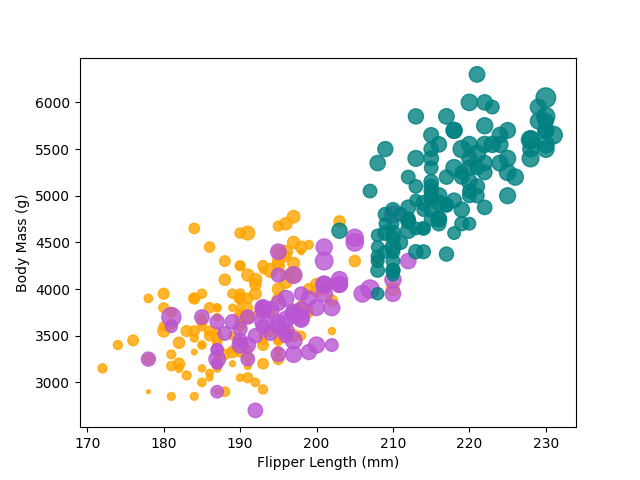
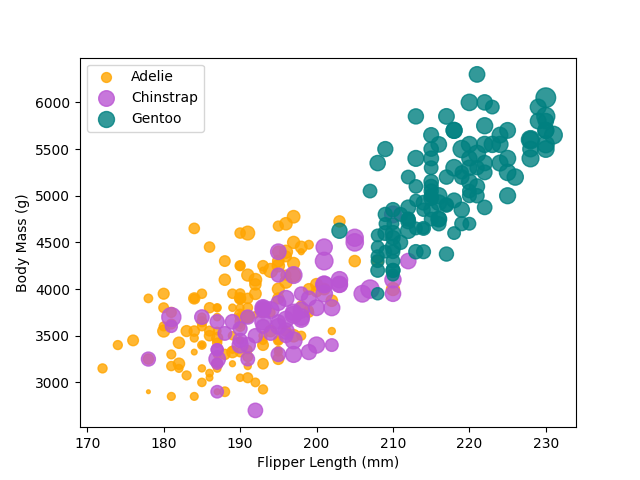
Added legend for Python visualization

Changed region(s): [[0.125, 0.125, 0.3125, 0.2812]]

diff --git a/all_visualizations/python_viz.py b/all_visualizations/python_viz.py
@@ -22,11 +22,13 @@ print(onlyGentooDf)
 
 # Referred to https://www.w3schools.com/python/matplotlib_scatter.asp for making sure I was properly using plt.scatter (mainly in terms of data input)
 # Also referred to https://matplotlib.org/stable/api/_as_gen/matplotlib.pyplot.scatter.html for a refresher on all the params/attributes of plt.scatter
-plt.scatter(onlyAdelieDf["flipper_length_mm"], onlyAdelieDf["body_mass_g"], s = onlyAdelieDf["bill_length_mm"], c = "orange", alpha = 0.8)
-plt.scatter(onlyChinstrapDf["flipper_length_mm"], onlyChinstrapDf["body_mass_g"], s = onlyChinstrapDf["bill_length_mm"], c = "#ba55d3", alpha = 0.8)
-plt.scatter(onlyGentooDf["flipper_length_mm"], onlyGentooDf["body_mass_g"], s = onlyGentooDf["bill_length_mm"], c = "teal", alpha = 0.8)
+# Referred to https://www.geeksforgeeks.org/python/how-to-add-a-legend-to-a-scatter-plot-in-matplotlib/ for creating the legend
+plt.scatter(onlyAdelieDf["flipper_length_mm"], onlyAdelieDf["body_mass_g"], s = onlyAdelieDf["bill_length_mm"], c = "orange", alpha = 0.8, label = "Adelie")
+plt.scatter(onlyChinstrapDf["flipper_length_mm"], onlyChinstrapDf["body_mass_g"], s = onlyChinstrapDf["bill_length_mm"], c = "#ba55d3", alpha = 0.8, label = "Chinstrap")
+plt.scatter(onlyGentooDf["flipper_length_mm"], onlyGentooDf["body_mass_g"], s = onlyGentooDf["bill_length_mm"], c = "teal", alpha = 0.8, label = "Gentoo")
 plt.xlabel("Flipper Length (mm)")
 plt.ylabel("Body Mass (g)")
+plt.legend()
 plt.show()
 
 # I will add mouseover functionality for seeing details about a specific point

diff --git a/README.md b/README.md
@@ -25,6 +25,7 @@ Python + Matplotlib made the visualization relatively easy to recreate, since I'
 - https://www.geeksforgeeks.org/python/normalize-a-column-in-pandas/
 - https://www.w3schools.com/python/matplotlib_scatter.asp
 - https://matplotlib.org/stable/api/_as_gen/matplotlib.pyplot.scatter.html
+- https://www.geeksforgeeks.org/python/how-to-add-a-legend-to-a-scatter-plot-in-matplotlib/
 
 
 # R + ggplot2
